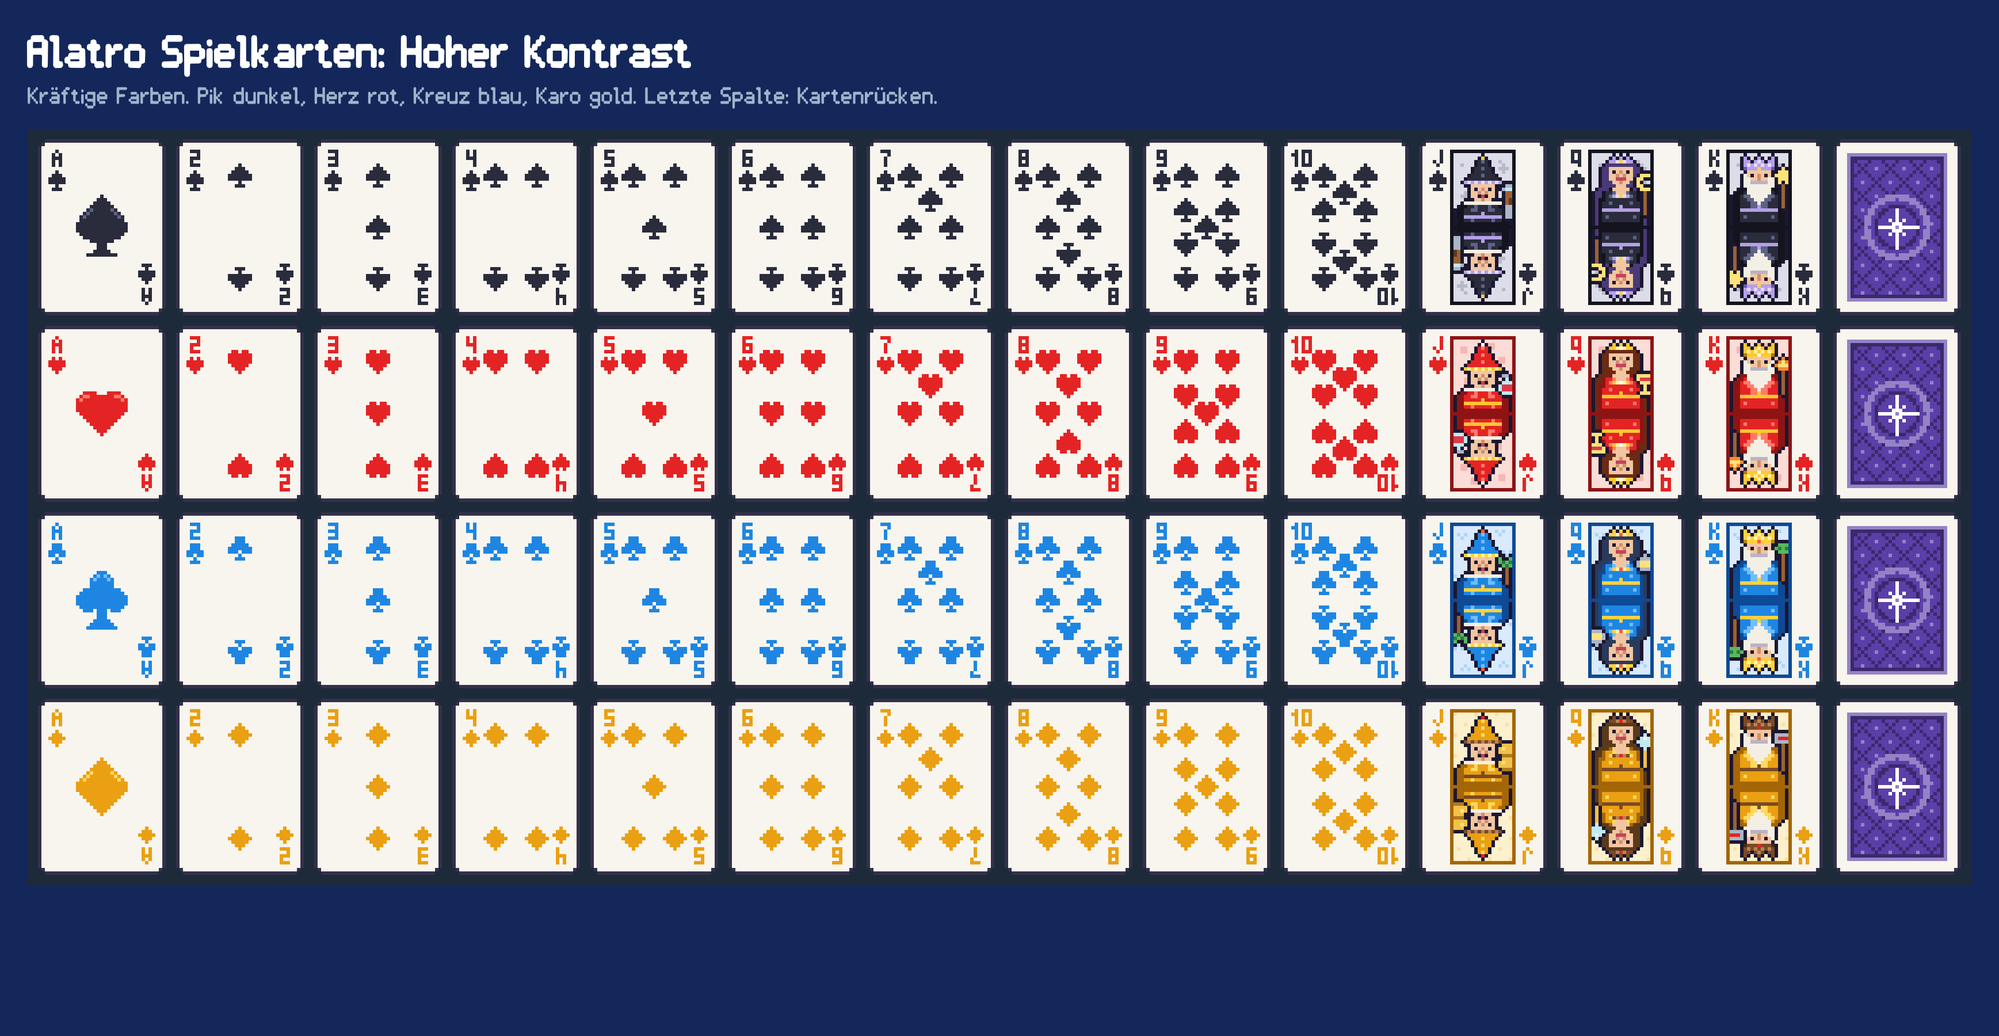
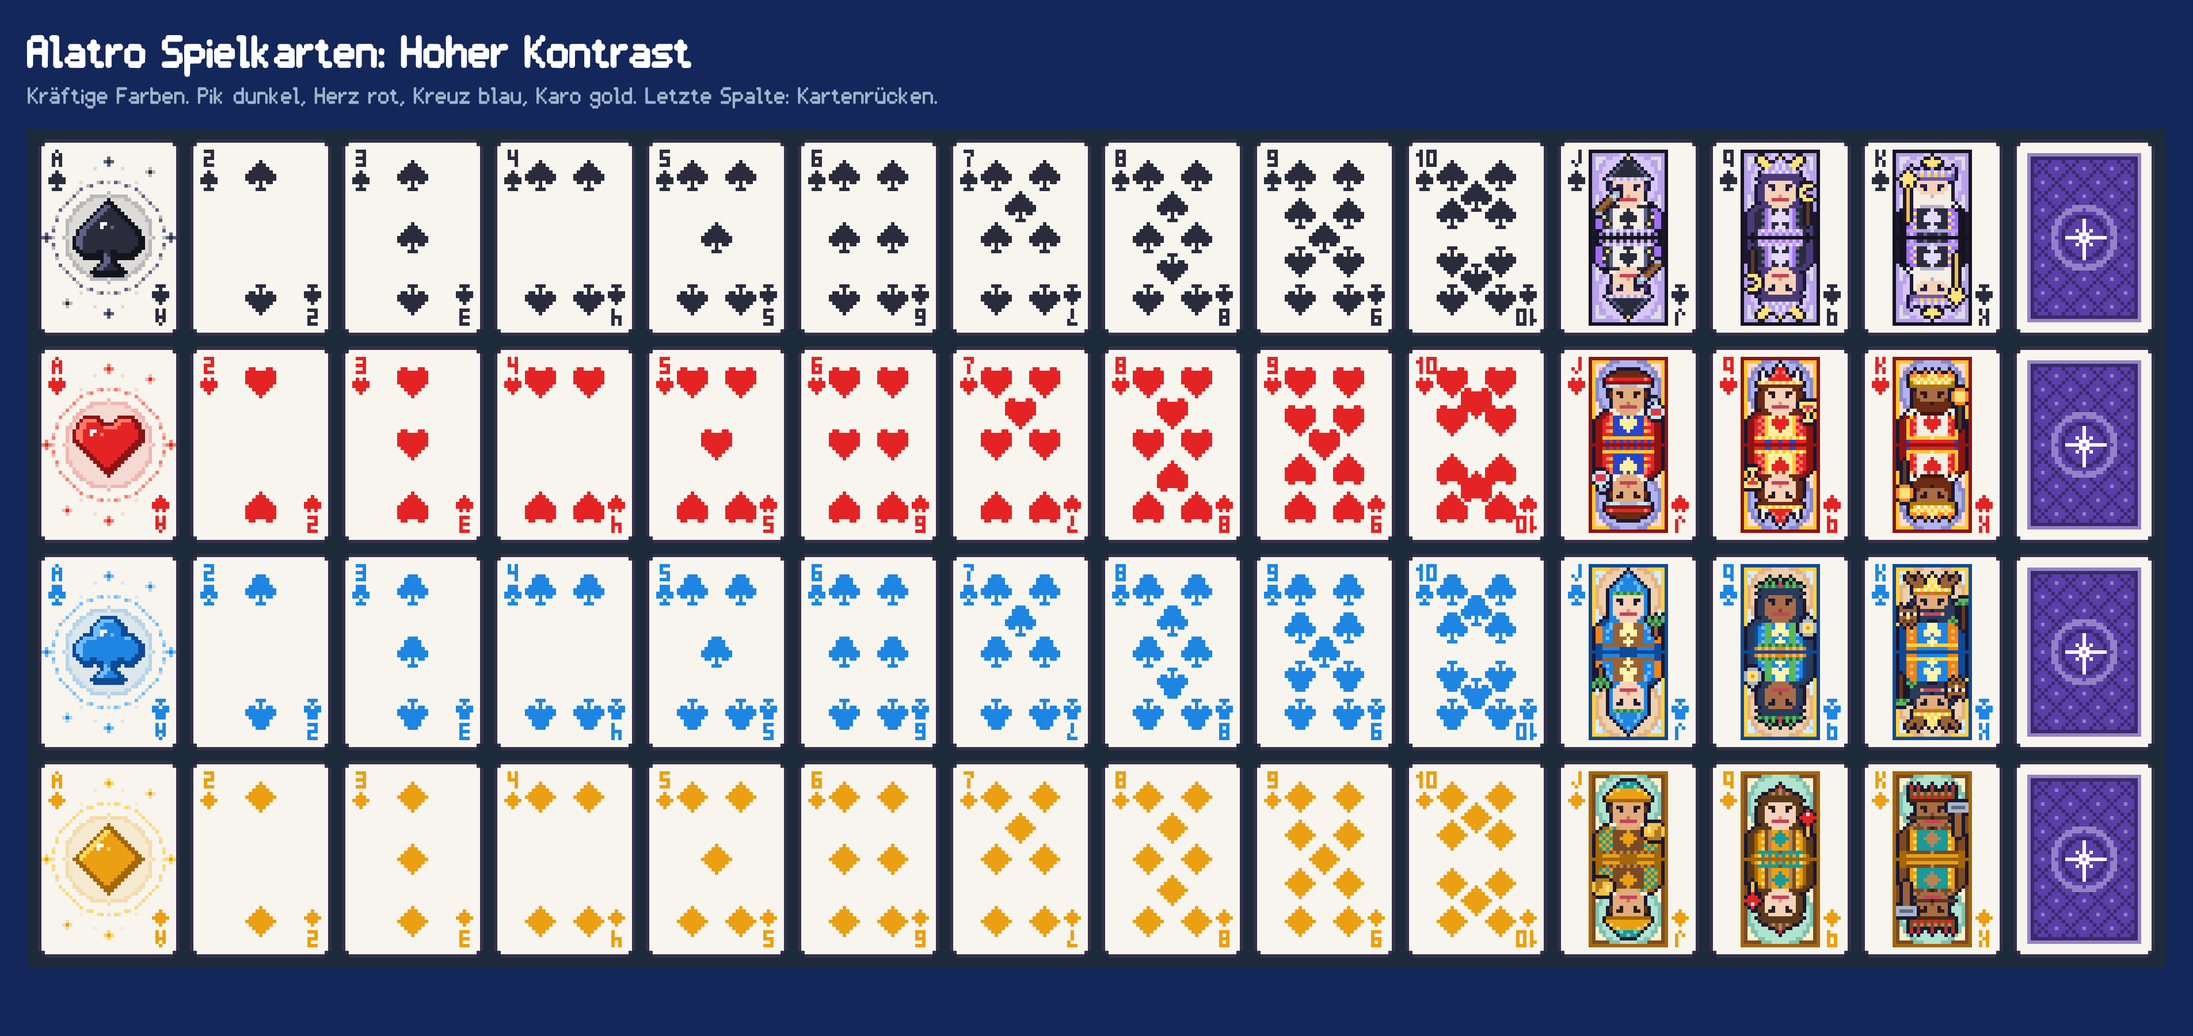
Bildkarten und Asse überarbeitet: zwölf Figuren mit Hauttönen und Heiligenschein, Vorschau und Doku
Claude-Session: https://claude.ai/code/session_01QX5Ets3EiAefQXnxEFSiJX

diff --git a/src/data/cardArt/courtSprites.ts b/src/data/cardArt/courtSprites.ts
@@ -19,9 +19,18 @@ export interface Held {
   y: number;
 }
 
+/** Hauttöne der Figuren: Haut und Schatten */
+export const SKIN_TONES = {
+  pale: { skin: 0xf6d2b8, shade: 0xd8967e },
+  tan: { skin: 0xe2ab7c, shade: 0xb87a52 },
+  brown: { skin: 0xa86c46, shade: 0x7a442a },
+} as const;
+export type SkinTone = keyof typeof SKIN_TONES;
+
 export interface Figure {
   /** Name der Figur (für Atlas und Test) */
   name: string;
+  skin: SkinTone;
   head: readonly string[];
   body: readonly string[];
   held: readonly Held[];
@@ -56,37 +65,43 @@ function torso(suit: Suit, top: string[], fabric: string[], panel: string, botto
 export const FIGURES: Record<CourtId, Figure> = {
   // ───────────────────────── Pik: Beobachter des Himmels
   SJ: {
+    skin: 'pale',
     name: 'Fernrohr Gehilfe',
     head: ['.......g', '......aa', '.....Aaa', '....Aaaa', '...Aaaaa', '..Aaaaaa', '.tTtTtTt', ...FACE_BOY],
-    body: torso('S', ['......wwww', '....wwWWww', '..bbaaaaww'], ['.bbaA', 'bbaaA', 'bbaAa', 'bbaaa', 'bbaAa', 'bbaaa'], 'cc', ['bbtTtTtTtT', 'bbaaaaabbb']),
+    body: torso('S', ['......wwww', '....wwWWww', '..bbaaaaww'], ['.ccaA', 'ccaaA', 'ccyaA', 'ccaaA', 'ccaya', 'ccaaA'], 'ww', ['bbtTtTtTtT', 'bcaCaCaCaC'], 'a'),
     held: [{ x: 0, y: 10, rows: ['.....GG', '....GvG', '...nnG.', '..nnN..', '.nnN...', 'nnN....', 'GG.....'] }],
   },
   SQ: {
+    skin: 'pale',
     name: 'Mondpriesterin',
     head: ['.yy....g', '.yyy..tT', '..yyytTt', '...yttTt', '..tTtTtT', '..hhhhhh', '.hhhhhhh', ...FACE_GIRL],
     body: torso('S', ['......ssss', '....hhssss', '..hhhbsttT'], ['.hhaa', 'hhaaA', 'hhaaa', 'hhaaA', 'hhaaa', 'hhaaA'], 'cC', ['hhatTtTtTt', 'hbaCcCcCcC'], 'T', 'a'),
     held: [{ x: 15, y: 8, rows: ['.yyy.', 'yy...', 'y....', 'yy...', '.yyy.', '..N..', '..N..', '..N..', '..N..', '..N..', '..N..', '..N..'] }],
   },
   SK: {
+    skin: 'pale',
     name: 'Sternenkönig',
     head: ['.......y', '.....yyy', '......yy', '.t..t..t', '.tTtTtTt', '.uttgtgt', '.uuuuuuu', ...FACE_KING_LONG],
-    body: torso('S', ['......wwww', '...wwwwwww', '..wkwwwkww'], ['.bbcc', 'bbccc', 'bbcCc', 'bbccc', 'bbcCc', 'bbccc'], 'aa', ['bbtttttttT', 'bbcccaaaaa']),
+    body: torso('S', ['......wwww', '...wwwwwww', '..wkwwwkww'], ['.bbcc', 'bbccy', 'bbcCc', 'bbccy', 'bbcCc', 'bbccy'], 'aa', ['bbtttttttT', 'bbcCcaaAaa']),
     held: [{ x: 0, y: 4, rows: ['..y..', '.yyy.', 'yyyyy', '.yyy.', '.y.y.', '..d..', '..d..', '..d..', '..d..', '..d..', '..d..', '..d..', '..d..', '..d..', '..d..'] }],
   },
   // ───────────────────────── Herz: Alchemisten
   HJ: {
+    skin: 'tan',
     name: 'Kolben Lehrling',
     head: ['....hhhh', '..hhhhhh', '.aAaaaaa', '.bbbbbbb', '.GvvvGGG', ...FACE_BOY],
-    body: torso('H', ['......ssss', '....wwssss', '..bbawwwww'], ['.bbaA', 'bbaaA', 'bbaAa', 'bbaaa', 'bbaAa', 'bbaaa'], 'cc', ['bbtttttttt', 'bbaaaaaccc']),
+    body: torso('H', ['......ssss', '....wwssss', '..bbawwwww'], ['.bbaA', 'bbaaA', 'bbaAt', 'bbaaa', 'bbaAt', 'bbaaa'], 'cc', ['bbtttttttt', 'bbacacacac']),
     held: [{ x: 15, y: 10, rows: ['.GG..', '..v..', '.vvv.', 'vrrrv', 'vrrrv', '.vvv.'] }],
   },
   HQ: {
+    skin: 'pale',
     name: 'Alchemistin',
     head: ['.......g', '......aa', '..w...Aa', '..w..Aaa', '..wwaaaa', '.tTtTtTt', '.hhhhhhh', ...FACE_GIRL],
     body: torso('H', ['......ssss', '....wwssss', '..bbwwsttT'], ['.bbaA', 'bbaAa', 'bbaaA', 'bbaAa', 'bbaaA', 'bbaAa'], 'tT', ['bbtTtTtTtT', 'bbaaaccaac'], 'a'),
     held: [{ x: 15, y: 11, rows: ['yyyyy', 'yrrry', '.yry.', '..y..', '..y..', '.yyy.'] }],
   },
   HK: {
+    skin: 'brown',
     name: 'Großalchemist',
     head: ['..o..o.y', '.ooyooyy', '.tTtTtTt', '.utgtgtg', '.uuuuuuu', ...FACE_KING_ROUND],
     body: torso('H', ['......wwww', '...wwwwwww', '..wwkwwwkw'], ['.bbta', 'bbtaA', 'bbtaa', 'bbtaA', 'bbtaa', 'bbtaA'], 'ww', ['bbtttttttT', 'bbcaaaaaaa'], 'a'),
@@ -94,18 +109,21 @@ export const FIGURES: Record<CourtId, Figure> = {
   },
   // ───────────────────────── Karo: Goldmacher
   DJ: {
+    skin: 'tan',
     name: 'Münzjunge',
     head: ['.....ccC', '....cCcc', '...aAaaa', '..Aaaaaa', '.aaaaaaa', '.bbbbbbb', ...FACE_BOY],
     body: torso('D', ['......ssss', '....wwssss', '..bbacacww'], ['.bcac', 'bcaca', 'bacac', 'bcaca', 'bacac', 'bcaca'], 'tt', ['bbtTtTtTtT', 'bbaaaaabbb'], 'a'),
     held: [{ x: 14, y: 13, rows: ['.dddd.', 'dyddDd', 'dydDDd', 'dddDDd', '.DDDD.'] }],
   },
   DQ: {
+    skin: 'pale',
     name: 'Goldschmiedin',
     head: ['.......g', '......tT', '....tTtT', '..hhhhhh', '.hhhhhhh', ...FACE_GIRL],
     body: torso('D', ['......ssss', '....hhssss', '..hhhbsttt'], ['.hhba', 'hhbaA', 'hhbaa', 'hhbaA', 'hhbaa', 'hhbaA'], 'tT', ['hhbcccccct', 'hbaAcacacT'], 'c', 'a'),
     held: [{ x: 15, y: 9, rows: ['..g..', '.gwg.', 'ggggg', '.ggg.', '..g..', '..d..', '..d..', '..d..'] }],
   },
   DK: {
+    skin: 'brown',
     name: 'Goldkönig',
     head: ['.g.g...g', '.t.t...t', '.tTtTtTt', '.tgtgtgt', '.uuuuuuu', ...FACE_KING_MUST],
     body: torso('D', ['......ssss', '...tTtTtTt', '..tTtttTtt'], ['.tuaa', 'ttuaA', 'ttuaa', 'ttuaA', 'ttuaa', 'ttuaA'], 'cc', ['bbtttttttT', 'bbaaaaaaaa']),
@@ -113,18 +131,21 @@ export const FIGURES: Record<CourtId, Figure> = {
   },
   // ───────────────────────── Kreuz: Kräuterkundige
   CJ: {
+    skin: 'pale',
     name: 'Kräutersammler',
     head: ['.......a', '......aA', '.....aaa', '....aAaa', '...aAaaa', '..aaAaaa', '..alLlLl', ...FACE_HOOD],
     body: torso('C', ['......ssss', '....aaAAaa', '..bbaaaAAa'], ['.bbaA', 'ccaaA', 'ccaAa', 'ccaaa', 'ccaAa', 'ccaaa'], 'nn', ['bbnnnnnnnT', 'bbaaaaabbb']),
     held: [{ x: 15, y: 13, rows: ['l.l.l', 'lLlLl', '.lLl.', '..n..', '..n..', '..n..'] }],
   },
   CQ: {
+    skin: 'brown',
     name: 'Kräuterfrau',
     head: ['....l..l', '...l.l.r', '.lLlLlLr', '..hhhhhh', '.hhhhhhh', ...FACE_GIRL],
     body: torso('C', ['......ssss', '....hhssss', '..hhhbsLlL'], ['.hhba', 'hhbaA', 'hhbaa', 'hhbaA', 'hhbaa', 'hhbaA'], 'll', ['hhblLlLlLl', 'hbcCcCcCcc'], 'T', 'a'),
     held: [{ x: 15, y: 13, rows: ['..G..', '.GGG.', 'GyyyG', 'GyoyG', 'GyyyG', '.GGG.'] }],
   },
   CK: {
+    skin: 'tan',
     name: 'Waldkönig',
     head: ['n..n...y', 'nn.nn.yy', '.nnnn.yy', '..nnntTt', '..tTtTtT', '..uuguug', ...FACE_KING_MUTTON],
     body: torso('C', ['......ssss', '...lLlLlLl', '..lLlllLll'], ['.bbcc', 'bbccc', 'bbcCc', 'bbccc', 'bbcCc', 'bbccc'], 'aa', ['bbtttttttT', 'bbcccaaaaa']),

diff --git a/src/ui/cardArt/cardRender.ts b/src/ui/cardArt/cardRender.ts
@@ -1,7 +1,7 @@
 import type { Rank, Suit } from '../../core/types';
 import { CARD_BASE, CARD_PALETTES, type CardPaletteId, type SuitColors } from '../../data/cardArt/cardPalettes';
 import { ACE_GLINT, ACE_ORNAMENT, ACE_SHAPES, CARD_PX_H, CARD_PX_W, COURT_HALF, COURT_PANEL, INDEX_FONT, PIP_COL, PIP_LAYOUT, PIP_ROW, PIP_SIZE, SUIT_PIP, SUIT_SMALL } from '../../data/cardArt/cardGlyphs';
-import { COURT_PATTERN, FIGURE, FIGURES, type Court, type CourtId } from '../../data/cardArt/courtSprites';
+import { COURT_PATTERN, FIGURE, FIGURES, SKIN_TONES, type Court, type CourtId } from '../../data/cardArt/courtSprites';
 import { PixelBuffer, gridBuffer, mirrorRows, mixColor, type ColorMap } from './pixelBuffer';
 
 // Zeichnet Kartenvorderseiten und Rückseiten als Pixel Puffer (ohne DOM, testbar).
@@ -198,8 +198,19 @@ function courtHalf(court: Court, suit: Suit, s: SuitColors): PixelBuffer {
   drawPattern(half, COURT_PATTERN[suit], mixColor(s.tint, s.main, 0.22));
   // schmaler Zierrahmen in Gold, die Figur überdeckt ihn teilweise
   half.strokeRect(0, 0, COURT_HALF.w, COURT_HALF.h + 1, s.trim);
-  const map = courtColors(s);
   const id = `${suit}${court}` as CourtId;
+  const tone = SKIN_TONES[FIGURES[id].skin];
+  const map: ColorMap = { ...courtColors(s), s: tone.skin, S: tone.shade };
+  // Heiligenschein: getönte Scheibe mit Ring hinter dem Kopf
+  const hx = half.w >> 1, hy = 8;
+  const disc = mixColor(s.tint, s.secLight, 0.5), ring = mixColor(s.tint, s.sec, 0.55);
+  for (let y = -10; y <= 10; y++) {
+    for (let x = -10; x <= 10; x++) {
+      const d = Math.hypot(x, y);
+      if (d <= 8.5) half.set(hx + x, hy + y, disc);
+      else if (d <= 9.7) half.set(hx + x, hy + y, ring);
+    }
+  }
   half.blitBuffer(gridBuffer(figureGrid(id), map, CARD_BASE.ink, true), 0, 0);
   for (const held of FIGURES[id].held) half.blitBuffer(gridBuffer(held.rows, map, CARD_BASE.ink), held.x, held.y);
   return half;

diff --git a/tools/cardSheet.ts b/tools/cardSheet.ts
@@ -16,10 +16,11 @@ const GAP = 3;
 const BG = [0x1d, 0x2a, 0x3a];
 const order = ['S', 'H', 'C', 'D'] as const;
 const ranks = [14, 2, 3, 4, 5, 6, 7, 8, 9, 10, 11, 12, 13] as const;
+const faceRanks = [14, 11, 12, 13] as const;
 void SUITS; void RANKS;
 
-for (const id of CARD_PALETTE_IDS) {
-  const cols = ranks.length + 1;
+function sheet(id: (typeof CARD_PALETTE_IDS)[number], list: readonly number[], withBack: boolean, name: string) {
+  const cols = list.length + (withBack ? 1 : 0);
   const rows = order.length;
   const W = (cols * (CARD_PX_W + GAP) + GAP) * scale;
   const H = (rows * (CARD_PX_H + GAP) + GAP) * scale;
@@ -36,8 +37,13 @@ for (const id of CARD_PALETTE_IDS) {
     }
   };
   order.forEach((suit, r) => {
-    ranks.forEach((rank, c) => put(renderCard(suit, rank, id), GAP + c * (CARD_PX_W + GAP), GAP + r * (CARD_PX_H + GAP)));
-    put(renderCardBack(0x5b3fa8), GAP + ranks.length * (CARD_PX_W + GAP), GAP + r * (CARD_PX_H + GAP));
+    list.forEach((rank, c) => put(renderCard(suit, rank as never, id), GAP + c * (CARD_PX_W + GAP), GAP + r * (CARD_PX_H + GAP)));
+    if (withBack) put(renderCardBack(0x5b3fa8), GAP + list.length * (CARD_PX_W + GAP), GAP + r * (CARD_PX_H + GAP));
   });
-  writeFileSync(join(out, `cards-${id}.png`), encodePng(W, H, rgba));
+  writeFileSync(join(out, `${name}-${id}.png`), encodePng(W, H, rgba));
+}
+
+for (const id of CARD_PALETTE_IDS) {
+  sheet(id, ranks, true, 'cards');
+  sheet(id, faceRanks, false, 'faces');
 }

diff --git a/src/ui/Game.ts b/src/ui/Game.ts
@@ -591,7 +591,7 @@ export class Game {
   private layoutHand(ms = 260) {
     const hand = this.run?.round?.hand ?? [];
     const n = hand.length;
-    const spacing = Math.min(114, 820 / Math.max(n - 1, 1));
+    const spacing = Math.min(108, 780 / Math.max(n - 1, 1));
     hand.forEach((c, i) => {
       const v = this.cardViews.get(c.id);
       if (!v) return;

diff --git a/AUDIT.md b/AUDIT.md
@@ -289,12 +289,14 @@ Umsetzung der Vorschläge V2, V3, V4 und V8 (teilweise) aus `docs/HOOK_REPORT.md
 
 Neues Kartendesign für das 52er Deck als farbiges Pixel Art, komplett im Code gezeichnet (keine Bilddateien, keine fremden Assets, die Stilreferenzen wurden nicht eingelesen oder nachgezeichnet). Die Joker Grafiken sind nicht Teil dieses Schritts.
 
-* **System:** Karte 37 mal 51 Pixel, auf dem Bildschirm dreifach vergrößert (111 mal 153, `CARD_PX_SCALE`). Raster als Zeichen in `src/data/cardArt/` (`cardGlyphs.ts`: Index Schrift, Farbsymbole, Pip Layouts, Ass; `courtSprites.ts`: Figuren und gehaltene Gegenstände; `cardPalettes.ts`: Farben). Renderer ohne DOM in `src/ui/cardArt/` (`pixelBuffer.ts`, `cardRender.ts`), Pixi Texturen mit `scaleMode` nearest in `cardTextures.ts`, Cache pro Karte und Palette.
-* **Inhalt:** weißer Rand mit abgerundeten Ecken, Rang und Farbe oben links und um 180 Grad gedreht unten rechts, Pips 2 bis 10 klassisch, großes Ass, Bildkarten J, Q, K als Doppelfiguren (obere Hälfte, untere um 180 Grad gedreht) im Thema: Pik Sternbeobachter, Herz Alchemisten, Karo Goldmacher, Kreuz Kräuterkundige, je mit eigenem Gegenstand und Hintergrundmuster. Kartenrücken im Pixel Stil in der Farbe des Decks. Karten ohne Rang zeigen einen Kristall.
+* **System:** Karte 41 mal 57 Pixel, auf dem Bildschirm dreifach vergrößert (123 mal 171, `CARD_PX_SCALE`). Raster als Zeichen in `src/data/cardArt/` (`cardGlyphs.ts`: Index Schrift, Farbsymbole, Pip Layouts, Ass; `courtSprites.ts`: Figuren und gehaltene Gegenstände; `cardPalettes.ts`: Farben). Renderer ohne DOM in `src/ui/cardArt/` (`pixelBuffer.ts`, `cardRender.ts`), Pixi Texturen mit `scaleMode` nearest in `cardTextures.ts`, Cache pro Karte und Palette.
+* **Inhalt:** weißer Rand mit abgerundeten Ecken, Rang und Farbe oben links und um 180 Grad gedreht unten rechts, Pips 2 bis 10 klassisch (9 mal 9 Pixel, ohne Überlappung, per Test geprüft).
+* **Überarbeitung Bildkarten und Asse:** Zwölf eigene Doppelfiguren (obere Hälfte, untere um 180 Grad gedreht) im Thema: Pik Sternbeobachter (Fernrohr Gehilfe, Mondpriesterin, Sternenkönig), Herz Alchemisten (Kolben Lehrling, Alchemistin, Großalchemist), Karo Goldmacher (Münzjunge, Goldschmiedin, Goldkönig), Kreuz Kräuterkundige (Kräutersammler, Kräuterfrau, Waldkönig). Mehrfarbig: Gewand in Kartenfarbe und zweiter Stofffarbe, Gold, Haar, drei Hauttöne, Brustzeichen der Farbe, Heiligenschein hinter dem Kopf, Zierrahmen und Hintergrundmuster pro Farbe. Asse: großes Symbol mit Licht, Schatten, Glanzpixeln und Kontur, getönte Scheibe, Punktringe, vier Funken und feines Rautenmuster.
+* **Kartenrücken, Kristall:** Rücken im Pixel Stil in der Farbe des Decks. Karten ohne Rang zeigen einen Kristall.
 * **Paletten:** "Standard" (Pik dunkelblau, Herz pink, Kreuz dunkelgrün, Karo orange) und "Hoher Kontrast" (Pik dunkel, Herz rot, Kreuz blau, Karo gold). Wahl in den Optionen ("Kartenfarben"), wirkt sofort auch auf Karten im Bild.
 * **Einstellung:** Neues Feld `cardPalette` in `Settings` (Schlüssel `alatro.settings.v2`). `parseSettings` setzt bei fehlendem oder ungültigem Wert Standard, deshalb ist keine Migration nötig. **`SAVE_VERSION` bleibt 5**, der Run Spielstand ändert sich nicht.
 * **UI Eingriffe:** `CardView` (Sprite statt Text und Formen, Enhancement Fläche als Texturfarbe, Name, Siegel und Edition bleiben Overlays), `cardBack`, `ShopView` (Kartenmaß aus `CARD_H`), Optionen in `Game.ts`. Die Engine ist unberührt.
-* **Tests:** `src/cardArt.test.ts` (alle 104 Karten rendern, sind verschieden, Pips ohne Überlappung, gedrehter Index, gedrehte Figurenhälfte, Raster gültig, Einstellung). Vorschau: `preview/cards-standard.png`, `preview/cards-contrast.png` (erzeugt mit `node tools/cardPreview.cjs`).
+* **Tests:** `src/cardArt.test.ts` (alle 104 Karten rendern, sind verschieden, Pips ohne Überlappung, gedrehter Index, zwölf verschiedene Figuren mit gültigen Rastern und Farben, Mehrfarbigkeit, gedrehte Figurenhälfte, Ass, Einstellung). Vorschau: `preview/cards-standard.png`, `preview/cards-contrast.png`, `preview/cards-faces-zoom.png` (erzeugt mit `node tools/cardPreview.cjs`; einzelne Karten vergrößert mit `npx vite-node tools/cardZoom.ts`).
 
 ## Behalten
 
@@ -412,8 +414,8 @@ Stellen aus dem Briefing, die als [UNSICHER] markiert sind. Umgesetzt wird jewei
 | O85 | Vibration | Eigene Schicht `src/ui/haptics.ts`, Muster in `data/juice.ts` (`HAPTICS`), Option `haptics` in den Einstellungen (Standard an, ohne neue SAVE_VERSION). Android: `navigator.vibrate`. iPhone: Safari hat kein `vibrate`, ein verstecktes `input switch` (iOS 17.4 und neuer) löst nur ein einzelnes Tippen aus und nur im Rahmen einer Berührung, Zählschritte spüren dort also eventuell nichts. iPad: kein Taptic Motor, die Option meldet das. Nur im Code und per Test geprüft, **nicht auf einem echten Gerät** |
 | O86 | Home Titel aus Karten | Der Titel wird bei jedem Öffnen des Home Bildschirms neu hingeworfen (auch beim Zurückkehren aus dem Spiel). Das Umdrehen ist reine Spielerei ohne Wirkung. Suits und Neigung der Karten sind festgelegt, nicht zufällig, damit der Titel immer gleich aussieht. Die Schrift der Buchstaben ist `Alatro Pixel`, Karten und Rücken nutzen Maße und Farben der Spielkarten (`CARD_W`, `CARD_H`). Ist die Einführung noch offen, liegt das Willkommensfenster über dem Titel |
 | O87 | Titelschrift Alatro Karte | Eigene zweite Schrift, nur für die Titelkarten (`FONT_TITLE` in `src/ui/theme.ts`), mit Rückfall auf Alatro Pixel. Sie enthält nur die Zeichen A, L, T, R und O. Soll der Titel anders heißen oder die Schrift anderswo erscheinen, müssen die Glyphen in `tools/titlefont.py` ergänzt und die Datei neu erzeugt werden (`pip install fonttools shapely`). Die Datei wird wie die Pixel Schrift mit eingecheckt |
-| O85 | Kartenmaß | Die Karte ist jetzt 111 mal 153 statt 112 mal 156 (37 mal 51 Pixel mal 3), damit die Pixel ganzzahlig und gleich groß bleiben. Gedrehte oder nicht ganzzahlig skalierte Karten (Hand Fächer, Pack Auswahl nutzt 2 zu 3) zeigen leicht ungleiche Pixel. Auf dem iPad prüfen |
-| O86 | Index unten rechts | Der gedrehte Index liegt unten rechts, wie bei echten Karten (der Auftrag nannte "unten links"). Falls wirklich links gewünscht, ist es eine Zeile in `renderCard` |
-| O87 | Figuren Eigenentwurf | Die zwölf Bildkarten teilen sich drei gezeichnete Grundfiguren (Gehilfe, Alchemistin, Sternenkönig), die Farbe, gehaltener Gegenstand und Hintergrundmuster unterscheiden. Eigene Entwürfe im Thema, keine Vorlage. Mehr Einzelheiten pro Farbe sind möglich, kosten aber jeweils ein eigenes Raster |
-| O88 | Palette nur in den Optionen | Die Kartenpalette gilt für alle Karten gleichzeitig, auch Atlas und Shop. Sie ist keine Run Einstellung. Der Kartenrücken ist von der Palette unabhängig (Deckfarbe) |
-| O89 | Patch Notes | Dieser Schritt hat keinen Eintrag in `src/data/patchnotes.ts` und keine neue Versionsnummer, damit er sich nicht mit der parallelen Joker Arbeit überschneidet. Beim Zusammenführen einen gemeinsamen Eintrag anlegen |
+| O88 | Kartenmaß | Die Karte ist 123 mal 171 (41 mal 57 Pixel mal 3), vorher 111 mal 153 und davor 112 mal 156. Das Hand Layout rückt dafür enger (`spacing` 108 statt 114, Breite 780). Gedrehte oder nicht ganzzahlig skalierte Karten (Hand Fächer, Pack Auswahl mit Maßstab 2 zu 3, Shop) zeigen leicht ungleiche Pixel. Auf dem iPad prüfen |
+| O89 | Index unten rechts | Der gedrehte Index liegt unten rechts, wie bei echten Karten (der Auftrag nannte "unten links"). Falls wirklich links gewünscht, ist es eine Zeile in `renderCard` |
+| O90 | Figuren Eigenentwürfe | Die zwölf Bildkarten sind je eine eigene Zeichnung aus Kopf mit Kopfbedeckung, Oberkörper und Gegenstand (`FIGURES` in `src/data/cardArt/courtSprites.ts`), mit eigener Pose, Kleidung, Gesicht, Hautton und eigenem Gegenstand. Gemeinsam sind nur Maße, Oberkörperbau (gespiegelte Hälften, Brustzeichen der Farbe) und die Gesichtsvorlagen pro Typ. Keine Vorlage, keine Referenzpixel. Gesichter sind klein (9 Pixel breit) und bewusst einfach |
+| O91 | Palette nur in den Optionen | Die Kartenpalette gilt für alle Karten gleichzeitig, auch Atlas und Shop. Sie ist keine Run Einstellung. Der Kartenrücken ist von der Palette unabhängig (Deckfarbe) |
+| O92 | Patch Notes | Das neue Kartendesign hat keinen eigenen Patch Notes Eintrag und keine Versionsnummer. Beim nächsten Release einen Eintrag anlegen |

diff --git a/docs/HANDOFF.md b/docs/HANDOFF.md
@@ -24,9 +24,9 @@ Der Titel ALATRO im Home Bildschirm besteht aus sechs Karten (`src/ui/TitleCards
 
 ## Pixel Art Spielkarten (Branch `claude/confident-hawking-9wzkrq`, nicht live)
 
-Neues Kartendesign (Details und offene Punkte O85 bis O89 in `AUDIT.md`). Karten sind Pixel Raster im Code: Daten in `src/data/cardArt/`, Renderer ohne DOM in `src/ui/cardArt/`, `CardView` zeigt sie als Sprite mit nearest Skalierung. Zwei Paletten (Standard, Hoher Kontrast), Wahl in den Optionen, gespeichert in `settings.cardPalette` (keine Save Migration).
+Neues Kartendesign (Details und offene Punkte O88 bis O92 in `AUDIT.md`). Karten sind Pixel Raster im Code: Daten in `src/data/cardArt/`, Renderer ohne DOM in `src/ui/cardArt/`, `CardView` zeigt sie als Sprite mit nearest Skalierung. Zwei Paletten (Standard, Hoher Kontrast), Wahl in den Optionen, gespeichert in `settings.cardPalette` (keine Save Migration).
 
-* **Karten ändern:** Pips und Symbole in `cardGlyphs.ts`, Figuren in `courtSprites.ts` (halbe Zeilen, werden gespiegelt), Farben in `cardPalettes.ts`. Vorschau neu erzeugen: `node tools/cardPreview.cjs` (Playwright nötig), Ergebnis in `preview/`.
+* **Karten ändern:** Pips und Symbole in `cardGlyphs.ts`, Figuren in `courtSprites.ts` (zwölf Einträge in `FIGURES`: Kopf und Körper als halbe Zeilen, die gespiegelt werden, dazu Gegenstand und Hautton), Farben in `cardPalettes.ts`. Vorschau neu erzeugen: `node tools/cardPreview.cjs` (Playwright nötig), Ergebnis in `preview/`.
 * **Live stellen:** erst nach Freigabe des Eigentümers. Dann diesen Branch nach `main` mergen (löst den Pages Deploy aus). Bis dahin nicht auf `main` oder `claude/funny-brahmagupta-ic0bpe` pushen.
 * **Als Nächstes:** Auf dem iPad prüfen: Lesbarkeit von Rang und Farbe bei dreifacher Vergrößerung, Schärfe der Karten im Hand Fächer (leichte Drehung).
 
